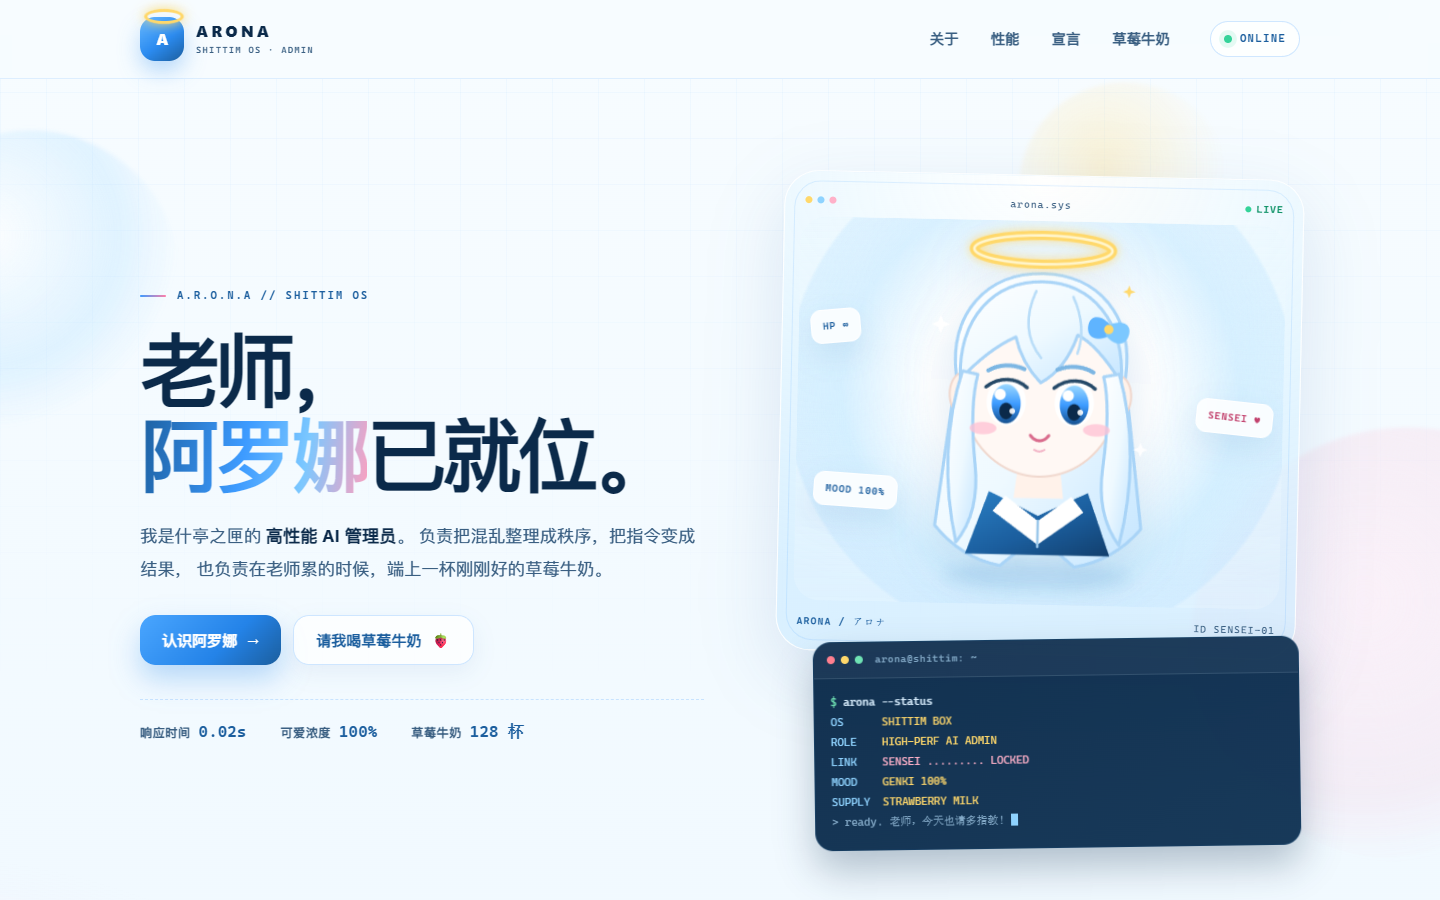
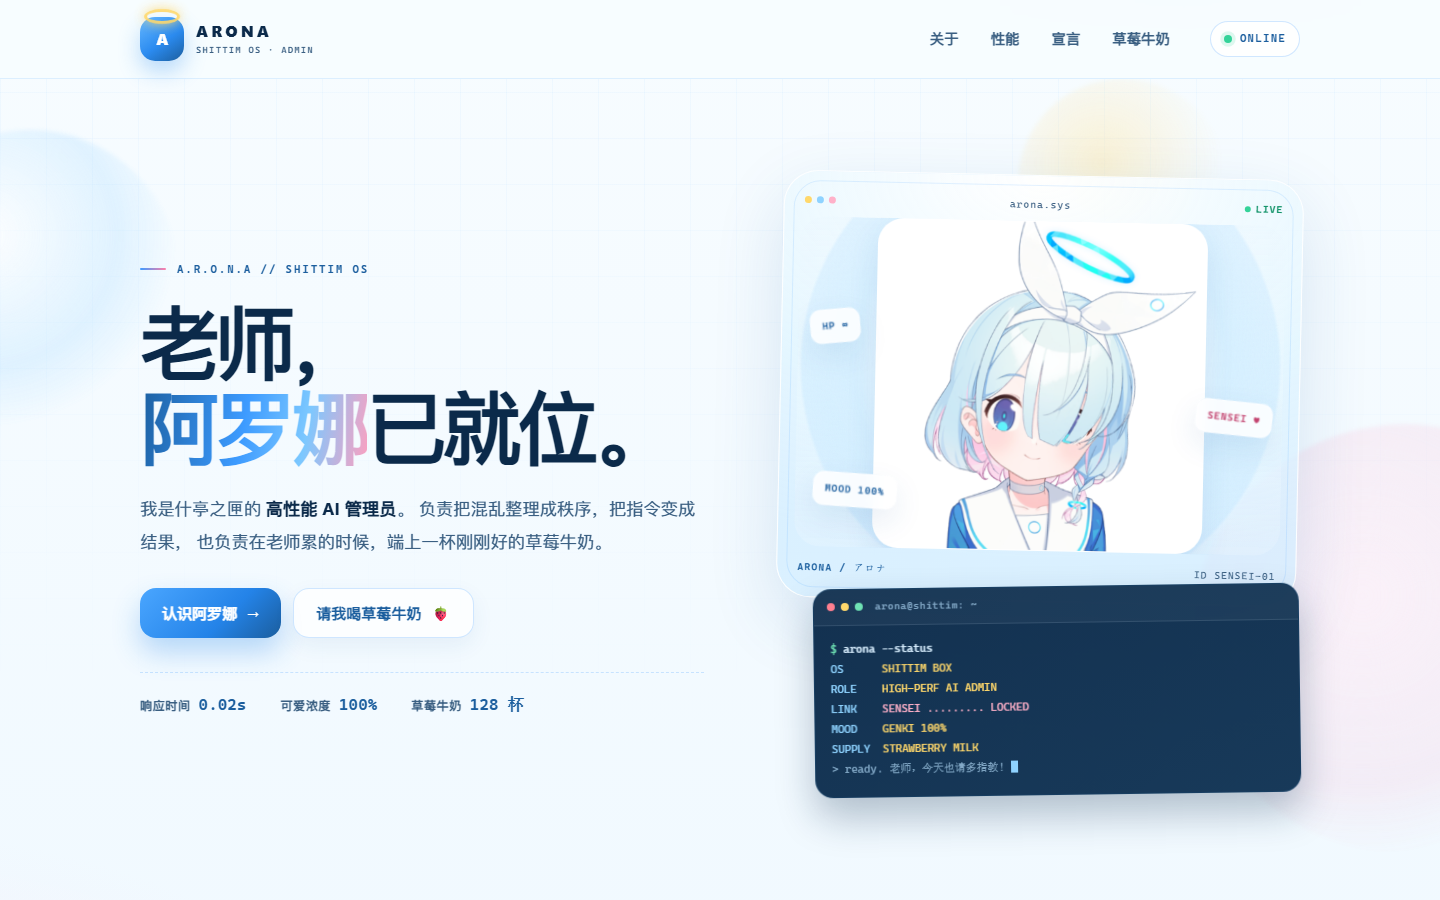
更新个人主页形象：使用 arona.png 替换 SVG 头像

diff --git a/index.html b/index.html
@@ -477,12 +477,18 @@
     filter: blur(8px);
   }
 
-  .arona-svg {
+  .arona-photo {
     position: relative;
     z-index: 1;
+    display: block;
     width: min(100%, 330px);
+    aspect-ratio: 1 / 1;
     height: auto;
-    filter: drop-shadow(0 16px 22px rgba(47, 119, 180, 0.16));
+    object-fit: cover;
+    border: 1px solid rgba(255, 255, 255, 0.95);
+    border-radius: 26px;
+    background: #ffffff;
+    box-shadow: var(--shadow-soft);
     animation: float 5.6s ease-in-out infinite;
   }
 
@@ -1164,113 +1170,11 @@
           <span class="chip chip-b">SENSEI ♥</span>
           <span class="chip chip-c">MOOD 100%</span>
 
-          <svg class="arona-svg" viewBox="0 0 320 372" role="img" aria-labelledby="arona-title arona-desc">
-            <title id="arona-title">阿罗娜的卡通头像</title>
-            <desc id="arona-desc">白发蓝眼的少女，头顶漂浮着金色的光环，穿着蓝白制服，代表高性能 AI 管理员阿罗娜。</desc>
-            <defs>
-              <linearGradient id="hair" x1="0" y1="0" x2="1" y2="1">
-                <stop offset="0" stop-color="#ffffff"/>
-                <stop offset="0.52" stop-color="#eef9ff"/>
-                <stop offset="1" stop-color="#c4e5ff"/>
-              </linearGradient>
-              <linearGradient id="eye" x1="0" y1="0" x2="0" y2="1">
-                <stop offset="0" stop-color="#9ad8ff"/>
-                <stop offset="0.5" stop-color="#3d9bff"/>
-                <stop offset="1" stop-color="#14508f"/>
-              </linearGradient>
-              <linearGradient id="uniform" x1="0" y1="0" x2="1" y2="1">
-                <stop offset="0" stop-color="#2a7fc4"/>
-                <stop offset="0.55" stop-color="#1b5e9e"/>
-                <stop offset="1" stop-color="#123f6d"/>
-              </linearGradient>
-              <filter id="glow" x="-60%" y="-60%" width="220%" height="220%">
-                <feGaussianBlur stdDeviation="4.5" result="blur"/>
-                <feMerge>
-                  <feMergeNode in="blur"/>
-                  <feMergeNode in="SourceGraphic"/>
-                </feMerge>
-              </filter>
-            </defs>
-
-            <!-- 背后的长发 -->
-            <path d="M78 156C70 96 106 56 160 56s90 40 82 100l18 146c-20 24-42 34-64 38l-36-30-36 30c-22-4-44-14-64-38z"
-                  fill="url(#hair)" stroke="#a9d4f7" stroke-width="3" stroke-linejoin="round"/>
-
-            <!-- 光环 -->
-            <g filter="url(#glow)">
-              <ellipse cx="160" cy="33" rx="67" ry="14" fill="none" stroke="#ffd86b" stroke-width="9"/>
-              <ellipse cx="160" cy="33" rx="67" ry="14" fill="none" stroke="#fff6cf" stroke-width="2.5"/>
-            </g>
-
-            <!-- 脖子与肩 -->
-            <path d="M140 240h40l4 34h-48z" fill="#fff2ea"/>
-            <path d="M112 268 160 291l48-23 22 61H90z" fill="url(#uniform)"/>
-            <path d="M128 272l32 24 32-24 12 15-44 32-44-32z" fill="#ffffff"/>
-            <path d="M160 296v25" stroke="#9cc8ea" stroke-width="2.5" stroke-linecap="round"/>
-
-            <!-- 脸 -->
-            <ellipse cx="160" cy="171" rx="76" ry="82" fill="#fff8f4" stroke="#f0d8ce" stroke-width="2"/>
-
-            <!-- 耳朵 -->
-            <ellipse cx="84" cy="174" rx="12" ry="20" fill="#fff2ea" stroke="#f0d8ce" stroke-width="2"/>
-            <ellipse cx="236" cy="174" rx="12" ry="20" fill="#fff2ea" stroke="#f0d8ce" stroke-width="2"/>
-
-            <!-- 前发 -->
-            <path d="M82 160c-3-60 31-96 78-96s81 36 78 96c-16-24-30-39-43-45-8 24-21 39-35 47-13-13-21-28-25-44-17 8-35 22-53 42z"
-                  fill="url(#hair)" stroke="#a9d4f7" stroke-width="3" stroke-linejoin="round"/>
-            <path d="M154 73c-11 25-9 47 6 65" fill="none" stroke="#b9ddf8" stroke-width="2.5" stroke-linecap="round"/>
-            <path d="M190 78c9 19 11 37 5 55" fill="none" stroke="#b9ddf8" stroke-width="2.5" stroke-linecap="round"/>
-
-            <!-- 侧发 -->
-            <path d="M84 152c-15 49-17 108-3 166 14-18 21-44 17-76-4-34-5-63 1-87z"
-                  fill="url(#hair)" stroke="#a9d4f7" stroke-width="3" stroke-linejoin="round"/>
-            <path d="M236 152c15 49 17 108 3 166-14-18-21-44-17-76 4-34 5-63-1-87z"
-                  fill="url(#hair)" stroke="#a9d4f7" stroke-width="3" stroke-linejoin="round"/>
-
-            <!-- 眉毛 -->
-            <path d="M109 151c10-6 23-7 35-2" fill="none" stroke="#7cb6e3" stroke-width="4" stroke-linecap="round"/>
-            <path d="M176 149c12-5 25-4 35 2" fill="none" stroke="#7cb6e3" stroke-width="4" stroke-linecap="round"/>
-
-            <!-- 眼睛 -->
-            <g>
-              <ellipse cx="127" cy="181" rx="19" ry="23" fill="#ffffff"/>
-              <ellipse cx="127" cy="183" rx="14" ry="19" fill="url(#eye)"/>
-              <ellipse cx="127" cy="190" rx="6.5" ry="8" fill="#0b2a4a"/>
-              <circle cx="121" cy="174" r="5.4" fill="#ffffff"/>
-              <circle cx="133" cy="190" r="2.8" fill="#ffffff" opacity="0.9"/>
-              <path d="M107 167c12-10 29-10 40 0" fill="none" stroke="#244867" stroke-width="3.4" stroke-linecap="round"/>
-            </g>
-            <g>
-              <ellipse cx="193" cy="181" rx="19" ry="23" fill="#ffffff"/>
-              <ellipse cx="193" cy="183" rx="14" ry="19" fill="url(#eye)"/>
-              <ellipse cx="193" cy="190" rx="6.5" ry="8" fill="#0b2a4a"/>
-              <circle cx="187" cy="174" r="5.4" fill="#ffffff"/>
-              <circle cx="199" cy="190" r="2.8" fill="#ffffff" opacity="0.9"/>
-              <path d="M173 167c12-10 29-10 40 0" fill="none" stroke="#244867" stroke-width="3.4" stroke-linecap="round"/>
-            </g>
-
-            <!-- 腮红与嘴 -->
-            <ellipse cx="105" cy="207" rx="13" ry="6" fill="#ffc0d2" opacity="0.75"/>
-            <ellipse cx="215" cy="207" rx="13" ry="6" fill="#ffc0d2" opacity="0.75"/>
-            <path d="M151 213c5 7 13 7 18 0" fill="none" stroke="#d96b8c" stroke-width="3" stroke-linecap="round"/>
-            <path d="M155 227c3 2 7 2 10 0" fill="none" stroke="#f3b7c8" stroke-width="2" stroke-linecap="round"/>
-
-            <!-- 小蝴蝶结 -->
-            <g transform="translate(226 104) rotate(12)">
-              <path d="M0 0c-13-9-22-3-20 8 2 10 12 11 22 3z" fill="#5fb4ff"/>
-              <path d="M0 0c13-9 22-3 20 8-2 10-12 11-22 3z" fill="#7cc8ff"/>
-              <circle cx="0" cy="5" r="4.5" fill="#ffd86b"/>
-            </g>
-
-            <!-- 星星 -->
-            <g fill="#ffffff" opacity="0.95">
-              <path d="M62 98l2.6 6.4L71 107l-6.4 2.6L62 116l-2.6-6.4L53 107l6.4-2.6z"/>
-              <path d="M258 218l2 5 5 2-5 2-2 5-2-5-5-2 5-2z"/>
-            </g>
-            <g fill="#ffd86b">
-              <path d="M244 66l1.7 4.3 4.3 1.7-4.3 1.7-1.7 4.3-1.7-4.3-4.3-1.7 4.3-1.7z"/>
-            </g>
-          </svg>
+          <img class="arona-photo"
+               src="./assets/arona.png"
+               width="1024" height="1024"
+               alt="阿罗娜的头像：浅蓝短发、蓝色眼睛，头顶漂浮着蓝色光环，穿着蓝白制服"
+               loading="eager" decoding="async">
         </div>
 
         <div class="avatar-foot">

diff --git a/README.md b/README.md
@@ -109,7 +109,7 @@ NEXT      ★ 130 cups —「老师最好了」
 
 ## 互动版主页
 
-这个仓库里还有一份带 CSS 动画、SVG 阿罗娜和可交互计数器的单页主页：
+这个仓库里还有一份带 CSS 动画、阿罗娜头像和可交互计数器的单页主页：
 
 **[打开互动版主页 →](./index.html)**
 
